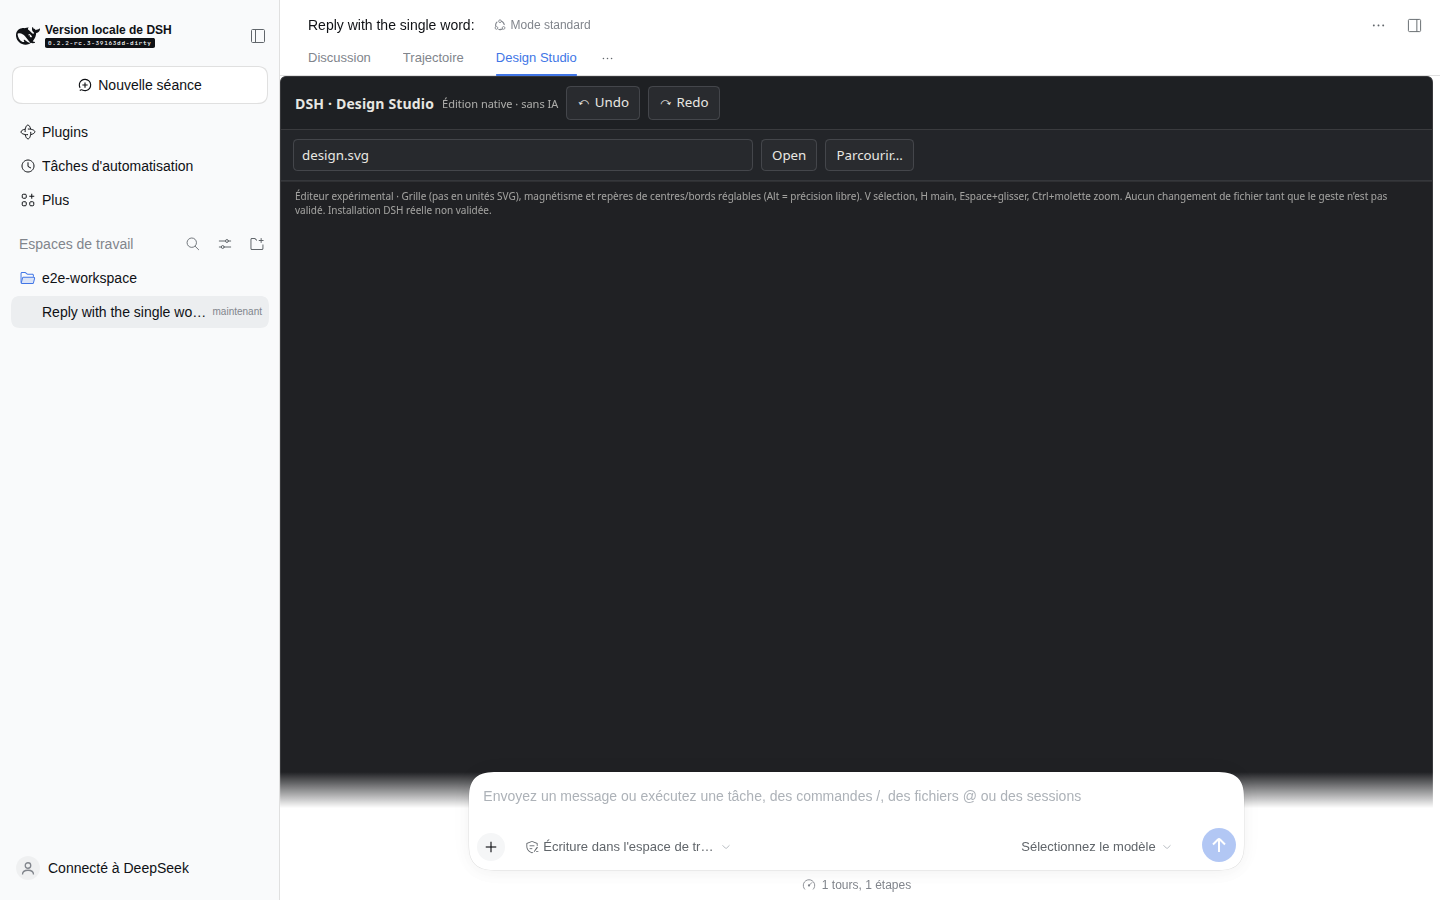
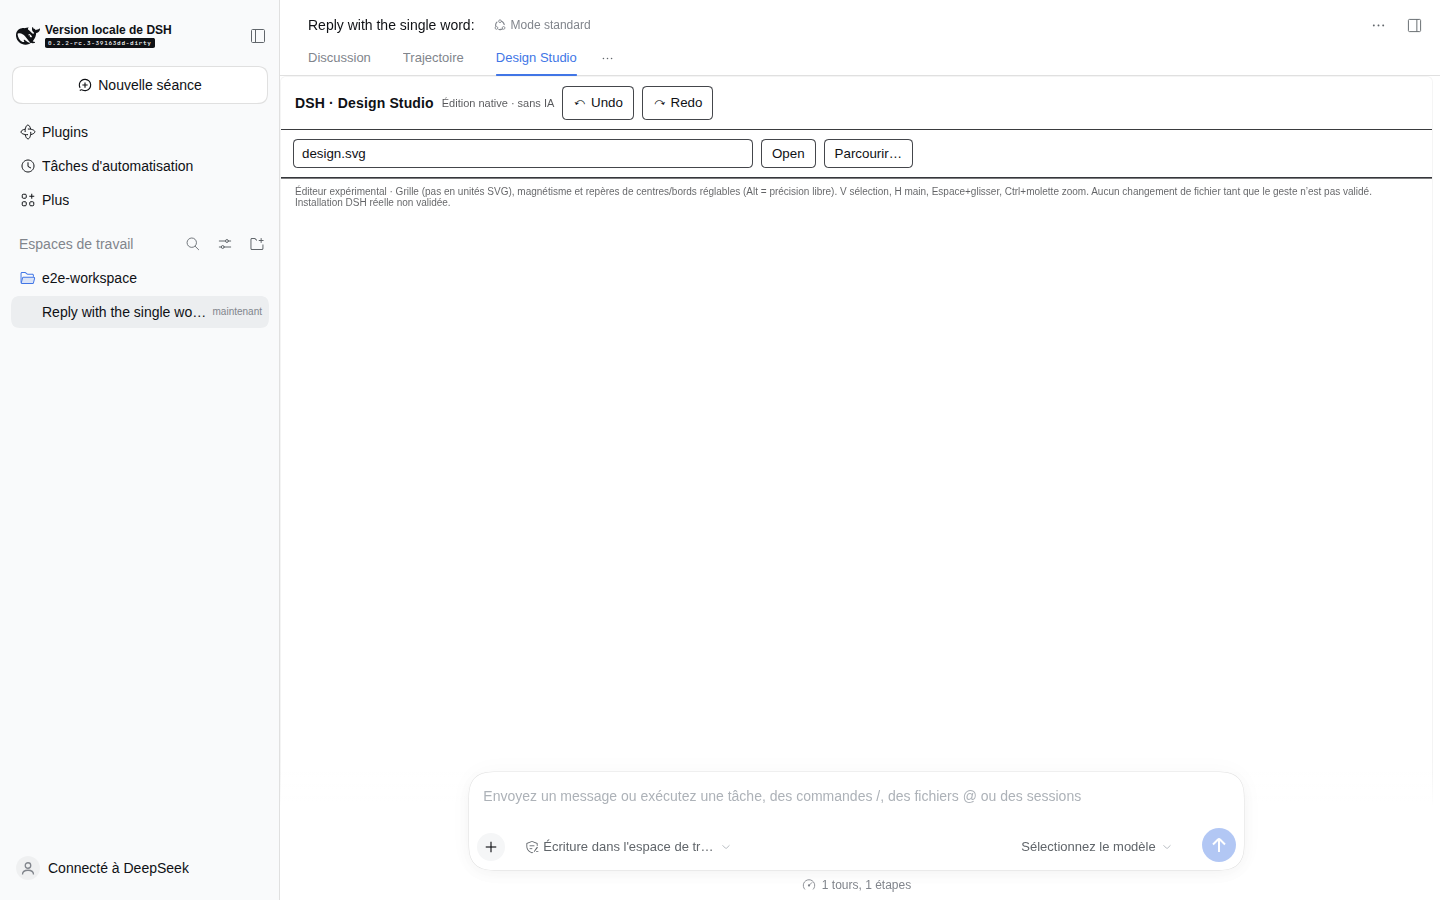
feat(dsh): prove the host theme applies inside the real DSH and keep surfaces readable
Running the real installation revealed that this DSH instance uses a LIGHT theme:
the workbench now paints rgb(255,255,255), exactly the value the host gives
--dsw-alias-bg-layer-1, where the alpha build would have rendered a hardcoded dark
slab inside a light application. The gate asserts that equality against the host's
own computed token value.

Two follow-ups from seeing it in place:
- the canvas backdrop uses the recessed --dsw-alias-bg-layer-2 token, so the white
  artwork sheet stays distinguishable from the surrounding canvas in light and dark
  themes alike (asserted: canvas and artboard backgrounds must differ);
- the evidence capture now also screenshots the workbench ELEMENT, because a bare
  viewport shot of this layout can be all page chrome if the view sits below the
  fold. The first capture was exactly that, and it was caught by measuring the
  image: the stored viewport shot had a uniform-white region where the view should
  have been.

Real DSH gate: 20 PASS / 0 FAIL / 0 NOT_RUN. Core: 409 tests. Browser: dsh-theme
spec now runs 7 checks.

diff --git a/client.js b/client.js
@@ -971,7 +971,7 @@ window.__ModuleLoader__.load({
           '.dsh-studio-workbench input:focus-visible,.dsh-studio-workbench textarea:focus-visible,.dsh-studio-workbench button:focus-visible{outline:2px solid #bca58c;outline-offset:1px}',
           '.dsh-studio-workbench button:not(:disabled):hover{filter:brightness(1.12)}',
           '.dsh-studio-layout{min-height:0;flex:1;overflow:auto}',
-          '.dsh-studio-canvas{background-color:var(--dsw-alias-bg-base, #191a1d) ;background-image:radial-gradient(#4a4a4a44 .8px,transparent .8px);background-size:18px 18px}',
+          '.dsh-studio-canvas{background-color:var(--dsw-alias-bg-layer-2, #191a1d);background-image:radial-gradient(#4a4a4a44 .8px,transparent .8px);background-size:18px 18px}',
           '.dsh-studio-workbench{container-type:inline-size}',
           '@media (prefers-reduced-motion:reduce){.dsh-studio-workbench,.dsh-studio-workbench *{transition:none!important;animation:none!important;scroll-behavior:auto!important}}',
           '@media (prefers-contrast:more){.dsh-studio-workbench{border-color:var(--dsw-alias-label-primary, #e8e7e2) }}',
@@ -1335,7 +1335,7 @@ window.__ModuleLoader__.load({
                         (htmlPreviewCoverage?.truncated?' · limite atteinte':'')+'.'),
                       h('div',{className:'dsh-studio-html-frame-scroll',
                         style:{width:'100%',maxWidth:'100%',overflowX:'auto',overflowY:'hidden',
-                          border:'1px solid #474747',borderRadius:8,background:'var(--dsw-alias-bg-base, #17191b)',
+                          border:'1px solid #474747',borderRadius:8,background:'var(--dsw-alias-bg-layer-2, #17191b)',
                           padding:8,boxSizing:'border-box'}},
                         h('iframe',{title:'Isolated design preview',sandbox:'allow-same-origin',
                           referrerPolicy:'no-referrer',onLoad:connectHtmlPreview,

diff --git a/docs/roadmap/DELIVERY-GATES-2026-11-17.md b/docs/roadmap/DELIVERY-GATES-2026-11-17.md
@@ -29,8 +29,8 @@ Preuves exécutées (`node tests/e2e/real-dsh.mjs`, DSH 0.2.2-rc.3, Node 24, Lin
 - `dsh --profile e2e --no-open` sert l'application réelle ; session réelle créée par l'UI.
 - `/design-studio-native/health` → 200 `{"ok":true,...}` ; `/files` → 200 ; `/document` → 200 avec `nodes` ; `/apply` → 200 et fichier réellement modifié ; seconde écriture avec révision périmée → **409** et fichier inchangé.
 - `window.__DSH_BOOT__.entries` contient `@rwanbt/dsh-design-studio` et le module servi (200, 89 771 octets) déclare `conversation.view`.
-- **Workbench dans la vraie conversation :** avec `DSH_E2E_REUSE_CREDENTIALS=1` (copie locale, mode 600, supprimée avec le profil jetable) et une surcouche de modèle, **un tour assistant réel** a été produit en 2 s ; DSH rend alors la zone `conversation.view`, le composant enregistré est cliquable et le texte `DSH · Design Studio` est présent dans le DOM. Capture : `docs/operations/evidence/dsh-workbench.png` (1440×900, contenu non uniforme vérifié).
-- **Résultat final : 19 PASS / 0 FAIL / 0 NOT_RUN.** La variante sans credentials reste à `NOT_RUN` sur les deux dernières étapes : c'est une limite d'environnement, pas un succès simulé.
+- **Workbench dans la vraie conversation (plugin interne) :** avec `DSH_E2E_REUSE_CREDENTIALS=1` (copie locale, mode 600, supprimée avec le profil jetable) et une surcouche de modèle, **un tour assistant réel** a été produit en 2 s ; DSH rend alors la zone `conversation.view`, le composant enregistré est cliquable et le texte `DSH · Design Studio` est présent dans le DOM. Captures : `docs/operations/evidence/dsh-workbench.png` (viewport) et `dsh-workbench-element.png` (la vue elle-même) ; le workbench est peint par le thème de l'hôte (`rgb(255,255,255)` = valeur DSH de `--dsw-alias-bg-layer-1`).
+- **Résultat final : 20 PASS / 0 FAIL / 0 NOT_RUN.** La variante sans credentials reste à `NOT_RUN` sur les deux dernières étapes : c'est une limite d'environnement, pas un succès simulé.
 - Non couvert : l'application Desktop (Electron) elle-même, seulement son serveur Web réellement démarré.
 
 ### Gate G1 — Stockage sans perte silencieuse

diff --git a/docs/operations/SESSION-2026-11-17-POST-MERGE.md b/docs/operations/SESSION-2026-11-17-POST-MERGE.md
@@ -50,6 +50,8 @@ The product is an internal DSH bundle, not an external application (ADR-023). Tw
 
 Guardrails: `tests/dsh-theme-tokens.test.mjs` fails on any unknown token name, and the browser spec `dsh-theme` injects a light palette and asserts the workbench surfaces/text actually follow it.
 
+Proven in the product: the real DSH instance renders a **light** theme, and the workbench now paints `rgb(255,255,255)` — exactly the value DSH gives `--dsw-alias-bg-layer-1` — instead of its previous hardcoded dark surface. The gate asserts that equality, and the canvas uses the recessed `--dsw-alias-bg-layer-2` so the white artwork sheet stays distinguishable. Evidence: `docs/operations/evidence/dsh-workbench-element.png` (1153×785, 1 552 distinct colours). Real DSH result: **20 PASS / 0 FAIL**.
+
 ### Windows intermittent failure: diagnosed, not papered over
 
 One HTML↔CSS navigation test failed intermittently on Windows only. Instead of raising a timeout again, the failure now reports the client's own state; the next failing run returned `{"alert":null,"hasReturnButton":true,"hasLinkedCssButton":false}` — proving the "return to HTML" click was a no-op because the client was still busy after the undo, not that the Host had failed. The test now waits until the button is actionable, and the same class of race is already guarded in the CSS integration tests.
